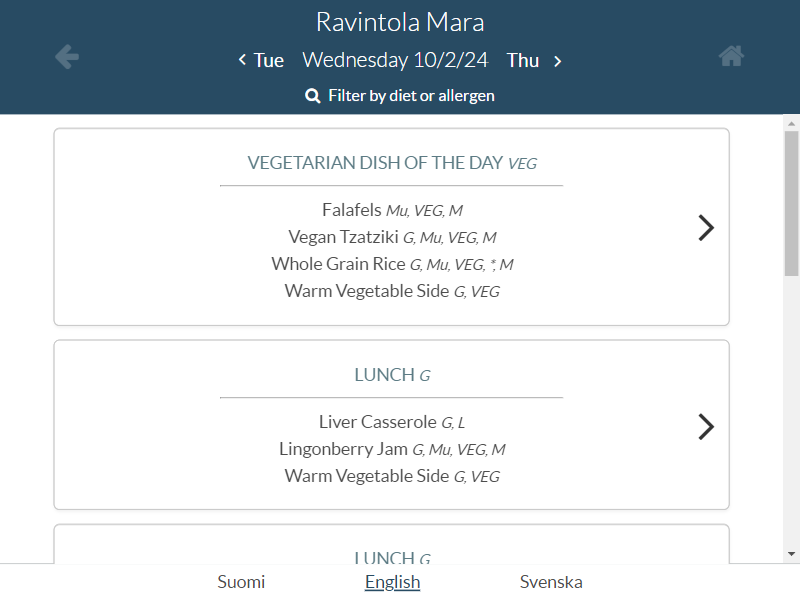
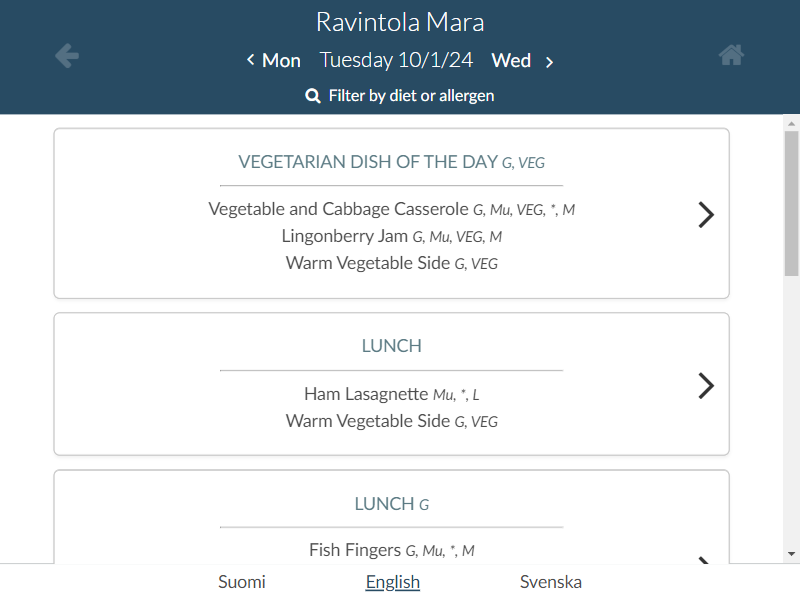
works modified method works for .cloud domains

diff --git a/server/index.js b/server/index.js
@@ -43,7 +43,8 @@ const getMara = async(page) => {
 
     }
 
-    console.log(menuData)
+    //console.log(menuData)
+    return menuData
 }
 
 function getCurrentWeekday(){
@@ -90,20 +91,32 @@ function getCurrentDate(){
     return formattedDate
 }
 
-async function navigateToDate(page){
+async function getWebsiteDate(page){
     const menuDateElement = await page.$("div.v-label.v-widget.sub-title.v-label-sub-title.v-has-width")
     const textDate = await page.evaluate(span => span.textContent.trim(), menuDateElement);
 
     let websiteDate = textDate.split(" ");
     websiteDate = websiteDate[1].split("/").map(n => Number(n)) //website date
-    let weekday = getCurrentWeekday();
-    let systemDate = getCurrentDate(); //system date
 
+    return websiteDate
+}
+
+async function navigateToDate(page){
+    let systemDate = getCurrentDate(); //system date
+    let websiteDate = await getWebsiteDate(page)
     const nextButton = await page.$("div.v-button.v-widget.date.v-button-date.date--next.v-button-date--next")
     const prevButton = await page.$("div.v-button.v-widget date.v-button-date.date--previous.v-button-date--previous")
 
+    if(systemDate[0] == websiteDate[0]){
+        while(systemDate[1] > websiteDate[1]){ // 10 > 5
+            await nextButton.click()
+            await delay(1400)
+            websiteDate = await getWebsiteDate(page)
+        }
+    }else {
+        console.log("i have no idea what to do in this case")
+    }
     
-    await nextButton.click();
     await delay(2000)
     await page.screenshot({path: 'exemple.png'})
 
@@ -111,8 +124,15 @@ async function navigateToDate(page){
     console.log(websiteDate)
 }
 
+async function changeLang(page){
+    
+}
+
 (async () => {
-    // Launch the browser
+    let weekday = getCurrentWeekday();
+
+    if(weekday != 'Saturday' && weekday != 'Sunday'){
+        // Launch the browser
     const browser = await puppeteer.launch({ headless: false }); // Set headless to true if you don't want to see the browser
     const page = await browser.newPage();
 
@@ -137,12 +157,20 @@ async function navigateToDate(page){
     }
 
     await delay(1500);
-
-    await getMara(page)
-
     await navigateToDate(page)
+    const maraArray = await getMara(page)
 
+    await page.goto('https://fi.jamix.cloud/apps/menu/?anro=93077&k=70&mt=118');
+
+    const kerttuArray = await getMara(page)
     await browser.close();
+
+    console.log(maraArray)
+    console.log(kerttuArray)
+    }else{
+        console.log('sorry, not today')
+    }
+    
 })();
 
 // Получение текущей даты
